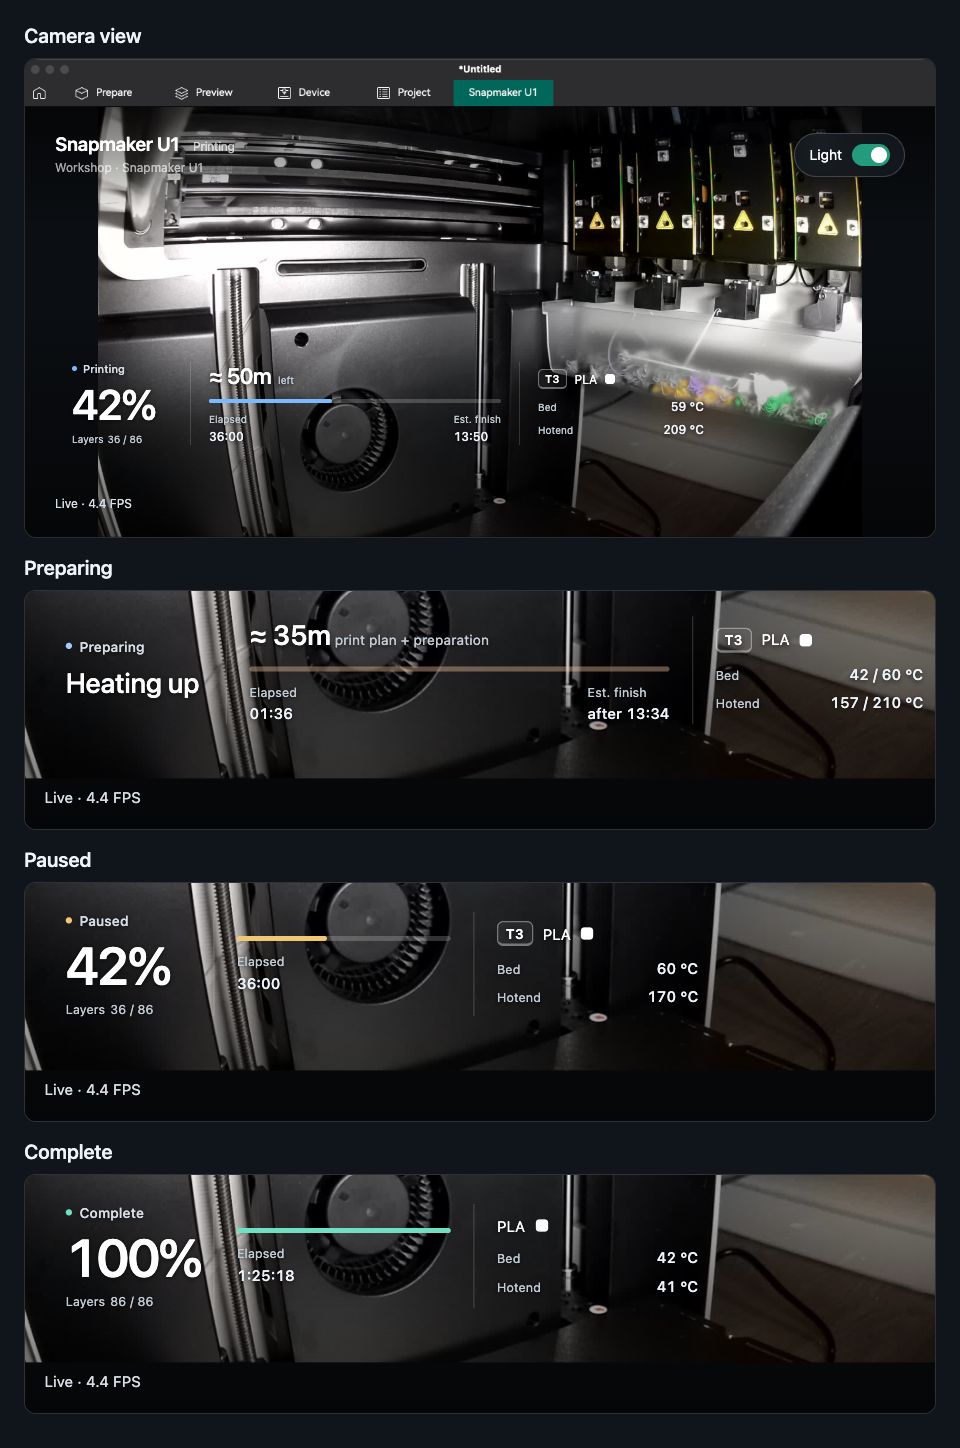
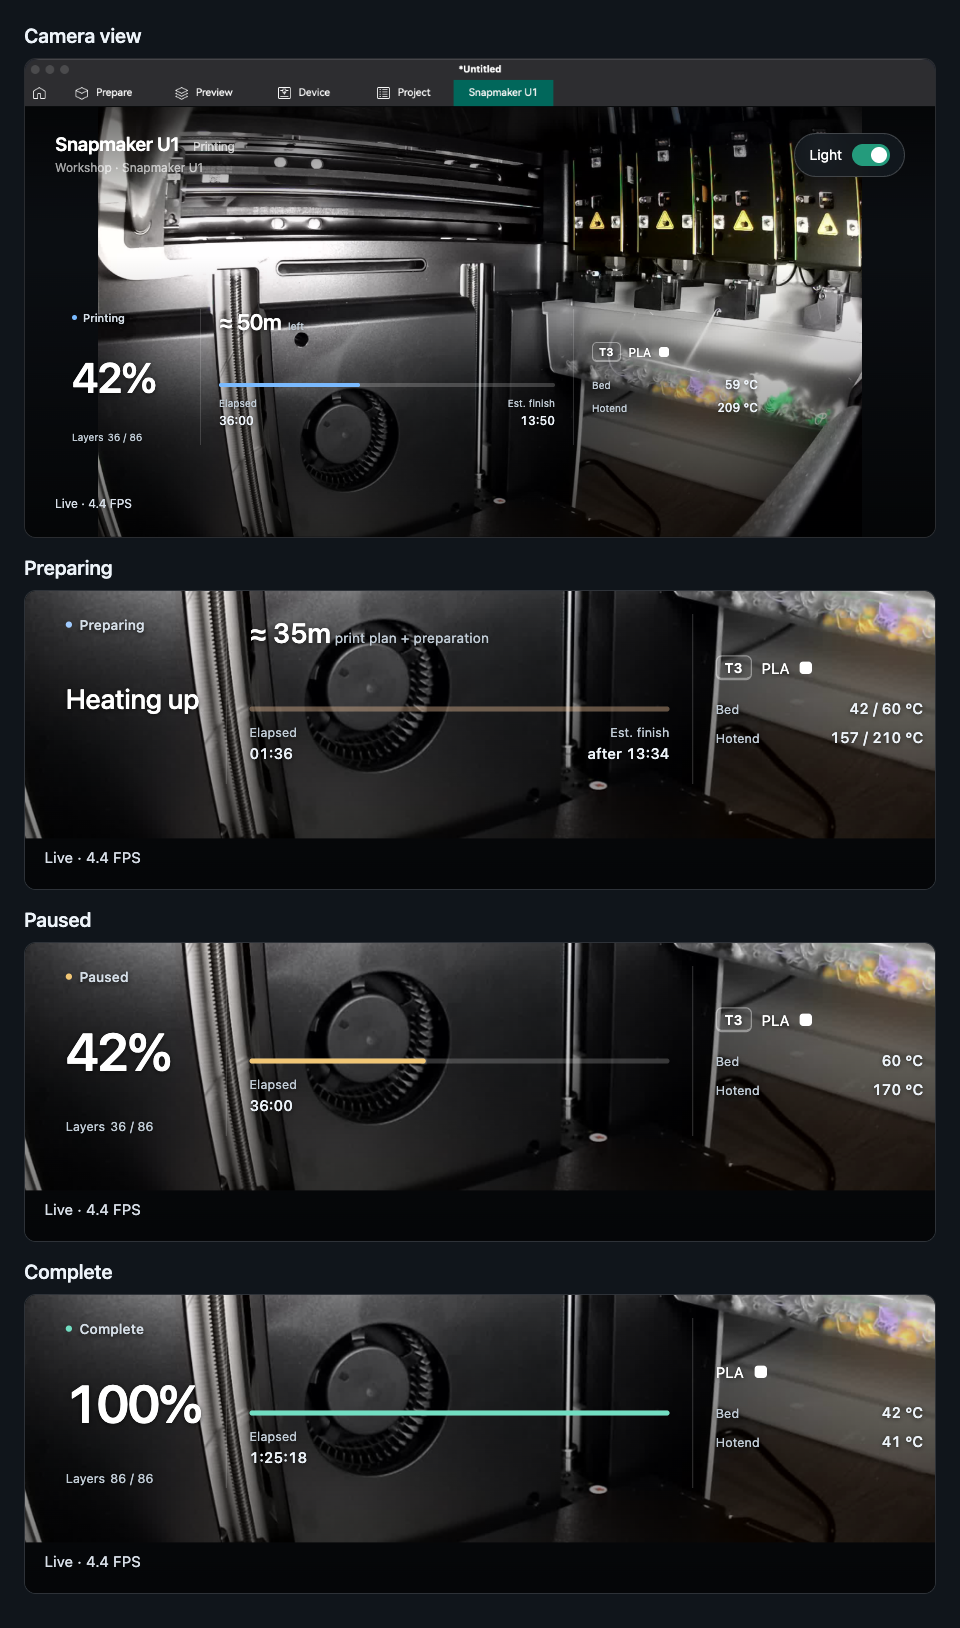
fix: stabilize job layouts and strengthen active shimmer

diff --git a/src/ui/PrintStats.svelte b/src/ui/PrintStats.svelte
@@ -83,9 +83,7 @@
           ? heating
             ? 'Heating up'
             : 'Preparing to print'
-          : printing && stats?.phase === 'finishing'
-            ? 'Finishing'
-            : '',
+          : '',
   );
   const progress = $derived(number(stats?.progress) ? Math.min(100, stats.progress * 100) : null);
   const indeterminate = $derived(preparing || (activePrint && !progress));
@@ -123,11 +121,15 @@
 <section id="stats" aria-labelledby="stats-title" tabindex="0" hidden={!stats} data-state={state}>
   <h2 id="stats-title">Print statistics</h2>
   <div class="stats-gauge">
-    <span id="stats-state" hidden={!states[state]}>{states[state] ?? ''}</span>
-    <span id="stats-message" hidden={!message}>{message}</span>
-    <strong id="progress-value" hidden={standby || preparing || missing || progress === null}
-      >{progress === null ? '—' : Math.floor(progress) + '%'}</strong
+    <span id="stats-state" hidden={!states[state]}
+      >{printing && stats?.phase === 'finishing' ? 'Finishing' : (states[state] ?? '')}</span
     >
+    <div class="stats-primary">
+      <span id="stats-message" hidden={!message}>{message}</span>
+      <strong id="progress-value" hidden={standby || preparing || missing || progress === null}
+        >{progress === null ? '—' : Math.floor(progress) + '%'}</strong
+      >
+    </div>
     <div
       id="layers-stat"
       class="layers"
@@ -237,9 +239,9 @@
   #stats {
     grid-column: 1 / -1;
     display: grid;
-    grid-template-columns: 100px minmax(0, 1fr) 185px;
+    grid-template-columns: 110px minmax(0, 1fr) 185px;
     gap: 18px;
-    width: 666px;
+    width: 720px;
     max-width: 100%;
     padding: 16px;
     border: 1px solid transparent;
@@ -261,10 +263,21 @@
     outline-offset: 3px;
   }
   .stats-gauge {
-    display: flex;
-    flex-direction: column;
-    justify-content: center;
+    display: grid;
+    grid-template-rows: 16px minmax(64px, 1fr) 16px;
     gap: 8px;
+  }
+  .stats-primary {
+    display: grid;
+    grid-row: 2;
+    align-items: center;
+    min-width: 0;
+  }
+  .stats-primary > * {
+    grid-area: 1 / 1;
+  }
+  #stats:is([data-state='standby'], [data-state='unavailable']) .stats-gauge {
+    grid-template-rows: 16px auto;
   }
   #stats-title {
     position: absolute;
@@ -274,6 +287,7 @@
     clip-path: inset(50%);
   }
   #stats-state {
+    grid-row: 1;
     display: inline-flex;
     align-items: center;
     gap: 6px;
@@ -310,6 +324,8 @@
     line-height: 1;
   }
   .layers {
+    grid-row: 3;
+    align-self: center;
     color: #c0cbd5;
     font-size: 10px;
   }
@@ -317,12 +333,17 @@
     margin-left: 4px;
   }
   .stats-journey {
-    display: flex;
-    flex-direction: column;
-    justify-content: center;
+    display: grid;
+    grid-template-rows: 64px 4px 48px;
+    align-content: center;
     gap: 10px;
     border-left: 1px solid #ffffff28;
     padding-left: 18px;
+  }
+  #remaining-stat,
+  #plan-stat {
+    grid-area: 1 / 1;
+    align-self: start;
   }
   #remaining-stat {
     display: flex;
@@ -358,6 +379,7 @@
     line-height: 1.4;
   }
   #progress-bar {
+    grid-area: 2 / 1;
     height: 4px;
     overflow: hidden;
     border-radius: 99px;
@@ -395,13 +417,13 @@
     animation: progress-shimmer 2.4s ease-in-out infinite;
   }
   #stats[data-state='printing'] #progress-fill::after {
-    --progress-highlight: #c4e2ff;
-    opacity: 0.55;
+    --progress-highlight: #e0f2ff;
+    opacity: 1;
     animation-duration: 3.2s;
   }
   #stats[data-state='paused'] #progress-fill::after {
-    --progress-highlight: #ffe2a3;
-    opacity: 0.55;
+    --progress-highlight: #fff4d9;
+    opacity: 1;
     animation-duration: 3.2s;
   }
   @keyframes progress-shimmer {
@@ -428,10 +450,18 @@
     background: #ff9999;
   }
   .stats-times {
-    display: flex;
-    justify-content: space-between;
+    grid-area: 3 / 1;
+    display: grid;
+    grid-template-columns: 1fr 1fr;
     gap: 10px;
     margin: 0;
+  }
+  .stats-times > div:first-child {
+    grid-area: 1 / 1;
+  }
+  .stats-times > div:last-child {
+    grid-area: 1 / 2;
+    text-align: right;
   }
   #stats dt {
     margin-bottom: 4px;
@@ -451,12 +481,15 @@
   }
   .stats-details {
     display: grid;
+    grid-template-rows: 30px 40px;
     align-content: center;
     gap: 10px;
     border-left: 1px solid #ffffff28;
     padding-left: 18px;
   }
   .material {
+    grid-area: 1 / 1;
+    align-self: center;
     display: flex;
     align-items: center;
     gap: 8px;
@@ -485,9 +518,17 @@
     background: transparent;
   }
   .temperatures {
+    grid-area: 2 / 1;
     display: grid;
+    grid-template-rows: 16px 16px;
     gap: 7px;
     margin: 0;
+  }
+  .temperatures > div:first-child {
+    grid-area: 1 / 1;
+  }
+  .temperatures > div:last-child {
+    grid-area: 2 / 1;
   }
   .temperatures > div {
     display: flex;
@@ -501,22 +542,15 @@
   #stats .temperatures dd {
     white-space: nowrap;
   }
-  #stats:is(
-    [data-state='complete'],
-    [data-state='paused'],
-    [data-state='cancelled'],
-    [data-state='error']
-  ) {
-    width: 540px;
-    grid-template-columns: 100px minmax(0, 1fr) 180px;
-  }
   #stats[data-state='standby'] {
     width: 320px;
     grid-template-columns: 1fr 1fr;
   }
-  #stats[data-state='preparing'] {
-    width: 720px;
-    grid-template-columns: 110px minmax(0, 1fr) 185px;
+  #stats[data-state='standby'] .stats-details {
+    grid-template-rows: auto;
+  }
+  #stats[data-state='standby'] .temperatures {
+    grid-area: auto;
   }
   #stats[data-state='unavailable'] {
     width: 360px;
@@ -531,20 +565,16 @@
     font-size: 22px;
   }
   @media (max-width: 650px) {
-    #stats,
-    #stats:is(
-      [data-state='complete'],
-      [data-state='paused'],
-      [data-state='cancelled'],
-      [data-state='error'],
-      [data-state='preparing']
-    ) {
+    #stats {
       width: 480px;
       grid-template-columns: 90px minmax(0, 1fr);
       gap: 12px;
     }
     #progress-value {
       font-size: 36px;
+    }
+    #stats[data-state='preparing'] #stats-message {
+      font-size: 18px;
     }
     .stats-journey {
       padding-left: 12px;
@@ -555,11 +585,17 @@
       border-top: 1px solid #ffffff28;
       padding: 10px 0 0;
       grid-template-columns: minmax(0, 1fr) minmax(0, 2fr);
+      grid-template-rows: 32px;
       align-items: center;
     }
     .temperatures {
+      grid-area: 1 / 2;
       grid-template-columns: 1fr 1fr;
+      grid-template-rows: 32px;
       gap: 12px;
+    }
+    .temperatures > div:last-child {
+      grid-area: 1 / 2;
     }
     .temperatures > div {
       display: block;
@@ -576,11 +612,19 @@
     }
     #stats[data-state='standby'] .temperatures {
       grid-template-columns: 1fr;
+      grid-template-rows: 32px 32px;
+    }
+    #stats[data-state='standby'] .temperatures > div:last-child {
+      grid-area: 2 / 1;
     }
   }
   @media (max-width: 420px) {
     .stats-details {
       grid-template-columns: 1fr;
+      grid-template-rows: 30px 32px;
+    }
+    .temperatures {
+      grid-area: 2 / 1;
     }
   }
 </style>

diff --git a/tests/page.test.ts b/tests/page.test.ts
@@ -295,7 +295,7 @@ for (const phase of ['printing', 'unknown', 'finishing'] as const) {
     assert.match(field('plan-stat').textContent!, /Slicer plan at normal speed/);
     assert.equal(visible(field('finish-value')), false);
     if (phase === 'unknown') assert.equal(visible(field('stats-message')), false);
-    if (phase === 'finishing') assert.equal(field('stats-message').textContent, 'Finishing');
+    if (phase === 'finishing') assert.equal(field('stats-state').textContent, 'Finishing');
     assert.equal(progress().hasAttribute('data-shimmer'), true);
   });
 }

diff --git a/scripts/prepare_screenshots.py b/scripts/prepare_screenshots.py
@@ -196,13 +196,13 @@ body { --viewer-top:calc(56px + 100vw * .05231144); }
                     for state in STATES[1:])
     (output / "showcase.html").write_text('''<!doctype html><html lang="en"><head><meta charset="utf-8">
 <title>Snapmaker U1 · Camera and print states</title><style>
-* { box-sizing:border-box; } html,body { margin:0; width:960px; height:1448px; overflow:hidden; }
+* { box-sizing:border-box; } html,body { margin:0; width:960px; height:1628px; overflow:hidden; }
 body { padding:24px; background:#10151b; color:#edf3f9; font:18px system-ui; display:flex; flex-direction:column; gap:18px; }
 section { display:flex; flex-direction:column; gap:10px; flex:none; }
 h2 { margin:0; font-size:20px; line-height:24px; font-weight:550; }
 iframe { display:block; border:0; background:#0b0e12; }
 .hero iframe { width:100%; height:480px; border:1px solid #ffffff20; border-radius:12px; }
-.crop { position:relative; height:240px; overflow:hidden; border:1px solid #ffffff20; border-radius:12px; }
+.crop { position:relative; height:300px; overflow:hidden; border:1px solid #ffffff20; border-radius:12px; }
 .crop iframe { position:absolute; width:900px; height:650px; left:-18px; bottom:-10px; transform:scale(1.25); transform-origin:bottom left; }
 </style></head><body><section class="hero"><h2>Camera view</h2><iframe title="Simulated Orca camera tab" src="printing.html"></iframe></section>''' + tiles + '</body></html>')
     return entry
@@ -222,7 +222,7 @@ def export_showcase(directory, destination):
         result = subprocess.run([
             browser, "--headless", "--no-first-run", "--no-default-browser-check",
             "--disable-background-networking", "--disable-sync", "--hide-scrollbars",
-            "--user-data-dir=" + profile, "--window-size=960,1448", "--force-device-scale-factor=1",
+            "--user-data-dir=" + profile, "--window-size=960,1628", "--force-device-scale-factor=1",
             "--virtual-time-budget=4000", "--screenshot=" + str(destination),
             (Path(directory).resolve() / "showcase.html").as_uri(),
         ], capture_output=True, text=True, timeout=45)

diff --git a/docs/reference.md b/docs/reference.md
@@ -55,6 +55,8 @@ It is orange while a reported heater is more than 2 °C below target and returns
 Printing and finishing use a subtle blue highlight inside the filled portion of the bar; paused jobs retain an amber shimmer.
 Active jobs without completed progress use an indeterminate activity bar.
 Unavailable metric fields and finish estimates are omitted.
+Job states with bars share the longer preparation width and fixed layout slots, so missing values do not move status labels or bars.
+Entire absent sections, such as job progress in standby, still collapse.
 Reduced-motion mode keeps all gradients still.
 
 Metadata refreshes at most every 30 seconds, including successful entries, to observe updated metadata.
